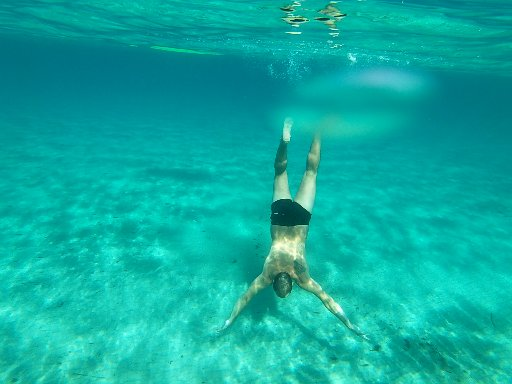
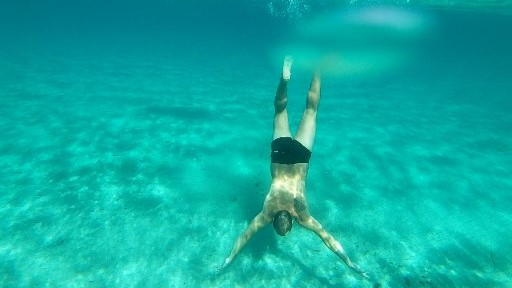
change imgs dimensions

diff --git a/index.html b/index.html
@@ -39,12 +39,12 @@
     </section>
 
     <section id="gallery" class="gallery">
-        <img src="/placeholder.svg?height=200&width=300" alt="Photo 1">
-        <img src="/placeholder.svg?height=200&width=300" alt="Photo 2">
-        <img src="/placeholder.svg?height=200&width=300" alt="Photo 3">
-        <img src="/placeholder.svg?height=200&width=300" alt="Photo 4">
-        <img src="/placeholder.svg?height=200&width=300" alt="Photo 5">
-        <img src="/placeholder.svg?height=200&width=300" alt="Photo 6">
+        <img src="https://github.com/DanielVancouver/final-project/blob/main/images/20160816_101313.jpg?raw=true" alt="Gallipoli, Italy">
+        <img src="https://github.com/DanielVancouver/final-project/blob/main/images/20160621_122346.jpg?raw=true" alt="Lefkada, Greece">
+        <img src="https://github.com/DanielVancouver/final-project/blob/main/images/IMG20200920132721_optimized.jpg?raw=true" alt="Ireland">
+        <img src="https://github.com/DanielVancouver/final-project/blob/main/images/IMG_20210301_181440_optimized.jpg?raw=true" alt="Bali">
+        <img src="https://github.com/DanielVancouver/final-project/blob/main/images/PANO_20210918_190147.jpg?raw=true" alt="France">
+        <img src="https://github.com/DanielVancouver/final-project/blob/main/images/20180624_122220.jpg?raw=true" alt="California">
     </section>
 
     <section id="about">

diff --git a/style.css b/style.css
@@ -55,9 +55,9 @@ nav a:hover {
     padding: 2rem;
 }
 .gallery img {
-    width: 300px;
-    height: 200px;
-    object-fit: cover;
+    max-width: 300px;
+    height: auto;
+    object-fit: contain;
     margin: 0.5rem;
     border-radius: 5px;
 }
